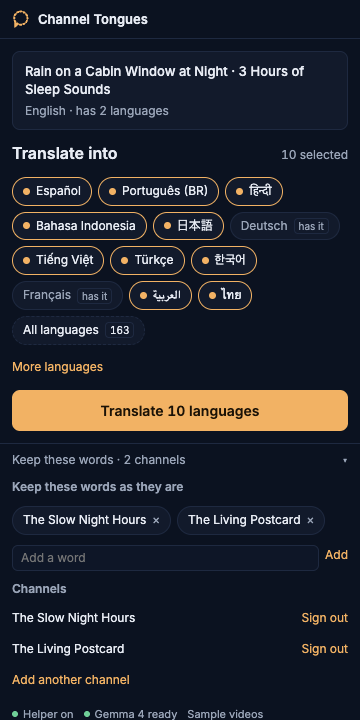
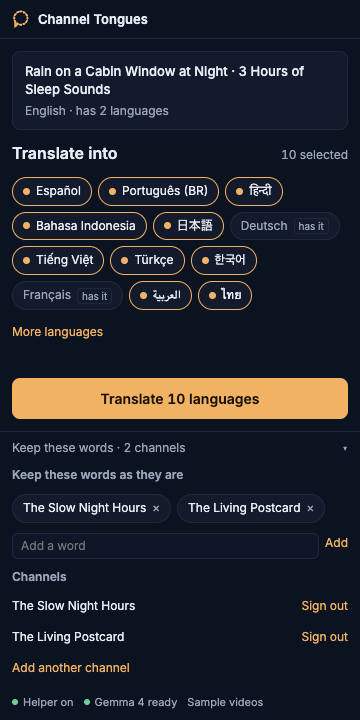
README, page and screenshots without All languages
Limits now say the list holds only languages the model handled, and that YouTube refuses some codes.

diff --git a/docs/index.html b/docs/index.html
@@ -39,7 +39,7 @@
       <li>
         <img src="screenshots/6-video-light.png" width="360" height="720" alt="The panel showing a video with twelve popular languages ticked and a Translate 10 languages button.">
         <h3>Pick languages</h3>
-        <p>The twelve biggest YouTube audiences are ticked for you. Languages the video already has are marked.</p>
+        <p>The twelve biggest YouTube audiences are ticked at first, then the ones you picked last time. Languages the video already has are marked.</p>
       </li>
       <li>
         <img src="screenshots/7-translating-light.png" width="360" height="720" alt="The panel translating: a list of languages, the first ones marked Ready.">
@@ -92,7 +92,7 @@ cd channel-tongues &amp;&amp; make build</code></pre></li>
     </details>
     <details>
       <summary>Which languages are ticked, and why those?</summary>
-      <p>Spanish, Portuguese (Brazil), Hindi, Indonesian, Japanese, German, Vietnamese, Turkish, Korean, French, Arabic and Thai, ordered by YouTube audience size in DataReportal's early-2025 country estimates. Every other language is one search away, and "All languages" ticks every one YouTube accepts.</p>
+      <p>Spanish, Portuguese (Brazil), Hindi, Indonesian, Japanese, German, Vietnamese, Turkish, Korean, French, Arabic and Thai, ordered by YouTube audience size in DataReportal's early-2025 country estimates. Every other language the model handled in our test is one search away. After your first translation, the panel ticks the languages you picked last time.</p>
     </details>
     <details>
       <summary>How many videos a day?</summary>

diff --git a/README.md b/README.md
@@ -67,15 +67,15 @@ Batch runs only add languages a video lacks and never touch existing translation
 
 ## Languages and model
 
-The twelve pre-checked languages are, in order: Spanish, Portuguese (Brazil), Hindi, Indonesian, Japanese, German, Vietnamese, Turkish, Korean, French, Arabic and Thai, ordered by YouTube audience size in DataReportal's early-2025 country estimates. English is left out as the usual source language. More languages are one search away in the panel. "All languages" next to the chips ticks every language in the list, each one accepted by YouTube on a test video: 165 for an English video (`--langs all` on the command line); pressing it again goes back to the twelve.
+The twelve pre-checked languages are, in order: Spanish, Portuguese (Brazil), Hindi, Indonesian, Japanese, German, Vietnamese, Turkish, Korean, French, Arabic and Thai, ordered by YouTube audience size in DataReportal's early-2025 country estimates. English is left out as the usual source language. More languages are one search away in the panel. After your first translation, the panel ticks the languages you picked last time on that channel (on a channel you have not translated on yet, your last pick anywhere). The twelve stay as chips, so one you left out is a tap away. On the command line, `--langs used` takes the same set.
 
 The helper uses `gemma4:26b` when you have downloaded it and `gemma4:e4b` otherwise. On an Apple M5 Max with 64 GB, both answered in about a second per language once loaded (twelve languages in 10 to 15 seconds); `gemma4:26b` made fewer mistakes in our tests, for example "Light Waves" became "gentle waves" instead of "waves of light". If your machine has 32 GB or more, run `ollama pull gemma4:26b` once. To try another model, set `TONGUES_MODEL`.
 
 ## Limits
 
 - Tags cannot be translated: YouTube keeps one set of tags per video.
-- YouTube accepts translations only in its own list of languages, and one code it does not accept makes the whole write fail with HTTP 400 `invalidVideoMetadata` ("The request metadata is invalid."). Channel Tongues offers only codes YouTube accepted on a test video. It refused, among others, Cebuano (`ceb`), Chichewa (`ny`), Norwegian Nynorsk (`nn`), Divehi (`dv`) and Central Kurdish (`ckb`).
-- "All languages" is slow and Gemma knows many of the rarer languages only a little. On a real English video, 165 languages took 48 minutes with `gemma4:26b` on an M5 Max (twelve take about 25 seconds). 81 passed every check and went out in one write, which costs the same quota as twelve. 84 were held back as Check this one: 17 the model could not translate at all (Abkhazian, Afar, Cherokee, Cree, Navajo, Wolof and others), 11 came out in a related language (Zulu for Ndebele, Kinyarwanda for Rundi), 42 added words to the title, and 6 titles ran over 100 characters. Of the twelve pre-checked languages, 11 passed. Have someone who reads a rare language look before you tick it.
+- YouTube accepts translations in more languages than its API lists, and refuses some: one code it does not accept, such as Cebuano (`ceb`), Chichewa (`ny`) or Norwegian Nynorsk (`nn`), makes the whole write fail with HTTP 400 `invalidVideoMetadata` ("The request metadata is invalid."). Channel Tongues offers only codes YouTube accepted on a test video.
+- The language list holds only the languages `gemma4:26b` translated in our test: of the 165 YouTube accepts for an English video, 28 came back unusable or in a related language (Hawaiian, Navajo and Wolof among them; Zulu for Ndebele), so 137 remain.
 - YouTube's free daily allowance covers about 190 publishes a day. Channel Tongues stops at about 170 to leave room for reading, and says when the limit resets (midnight Pacific).
 - A Google project in Testing status signs you out after seven days; sign in again from the panel.
 - The model can still get the meaning wrong while passing every check: an ambiguous English phrase can come out in the wrong sense. Read before you publish. Small models drift more in rarer languages; when a check fails, the language is marked instead of published.
